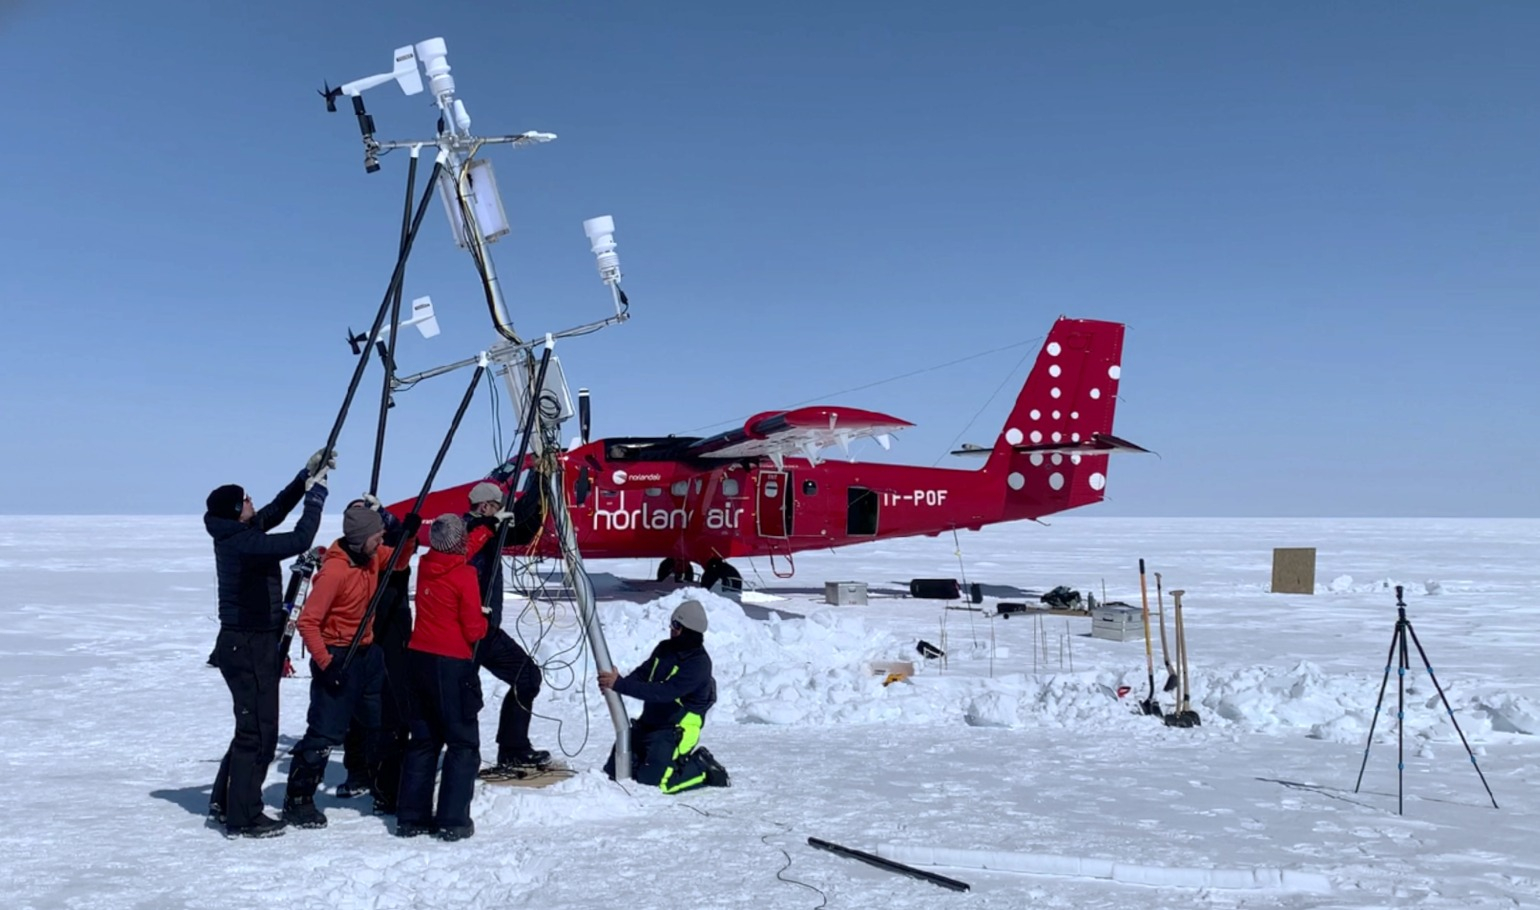
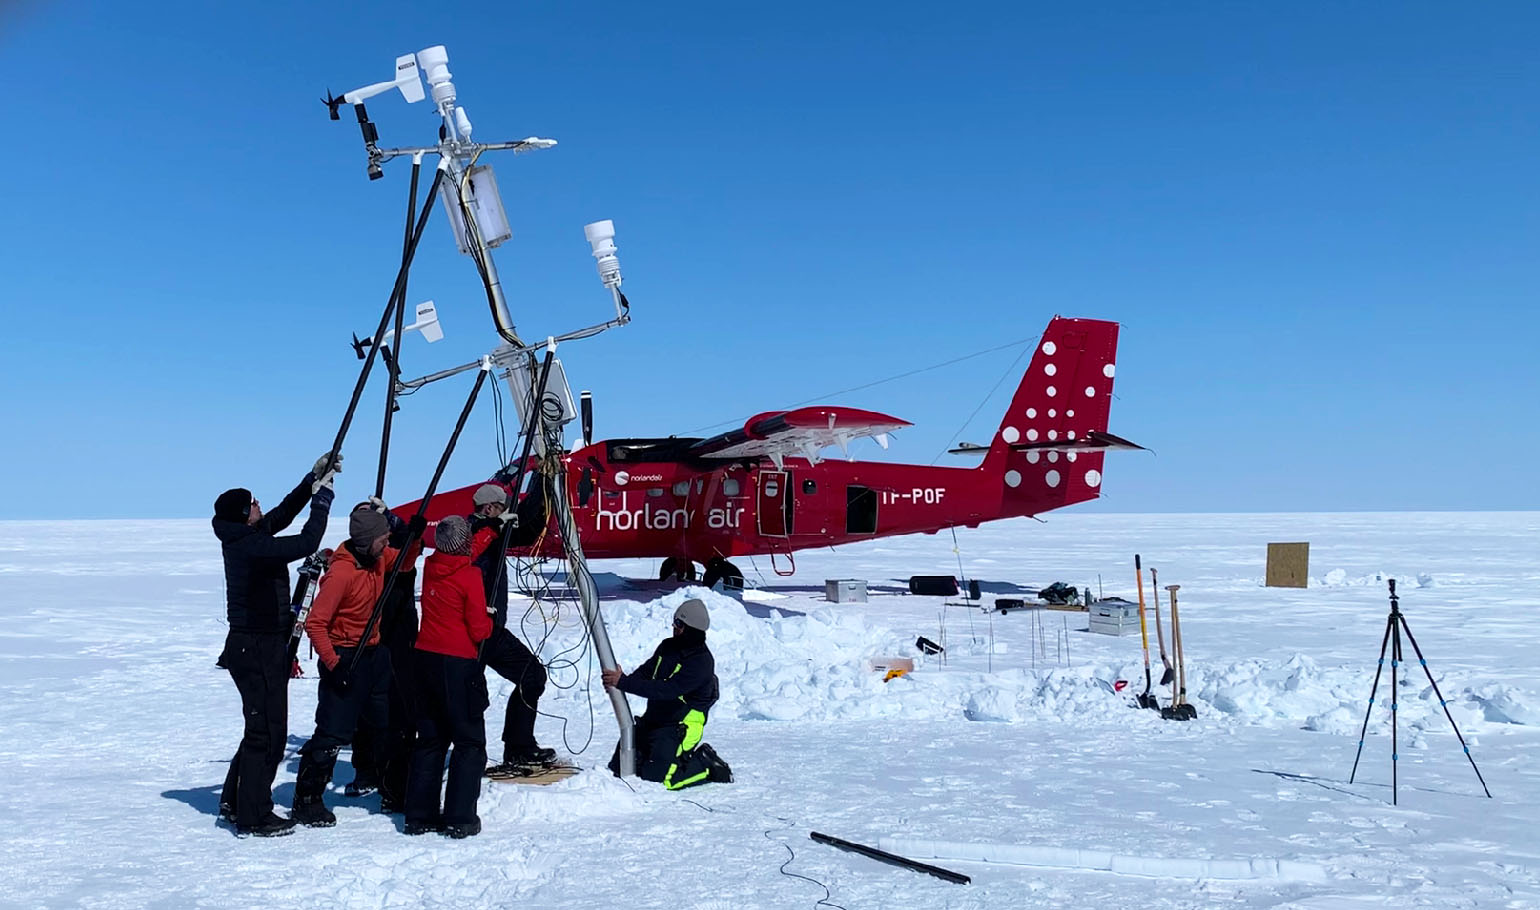
update fieldwork picture

diff --git a/_pages/about.md b/_pages/about.md
@@ -1,6 +1,5 @@
 ---
 permalink: /
-title: ""
 excerpt: "About me"
 author_profile: true
 redirect_from: 
@@ -14,4 +13,6 @@ Through extensive **fieldwork**, I've gained a hands-on understanding of the phy
 I want to help build a research community that is **open, transparent, and collaborative**, and that actively **makes space for diverse voices and contributions**.
 
 
-<img src="../images/fieldwork.jpg" alt="fieldwork" style="max-width: 100%; width: 400px; height: auto;">
+<div style="text-align: center;">
+  <img src="../images/fieldwork.jpg" alt="fieldwork" style="max-width: 100%; width: 600px; height: auto;">
+</div>
